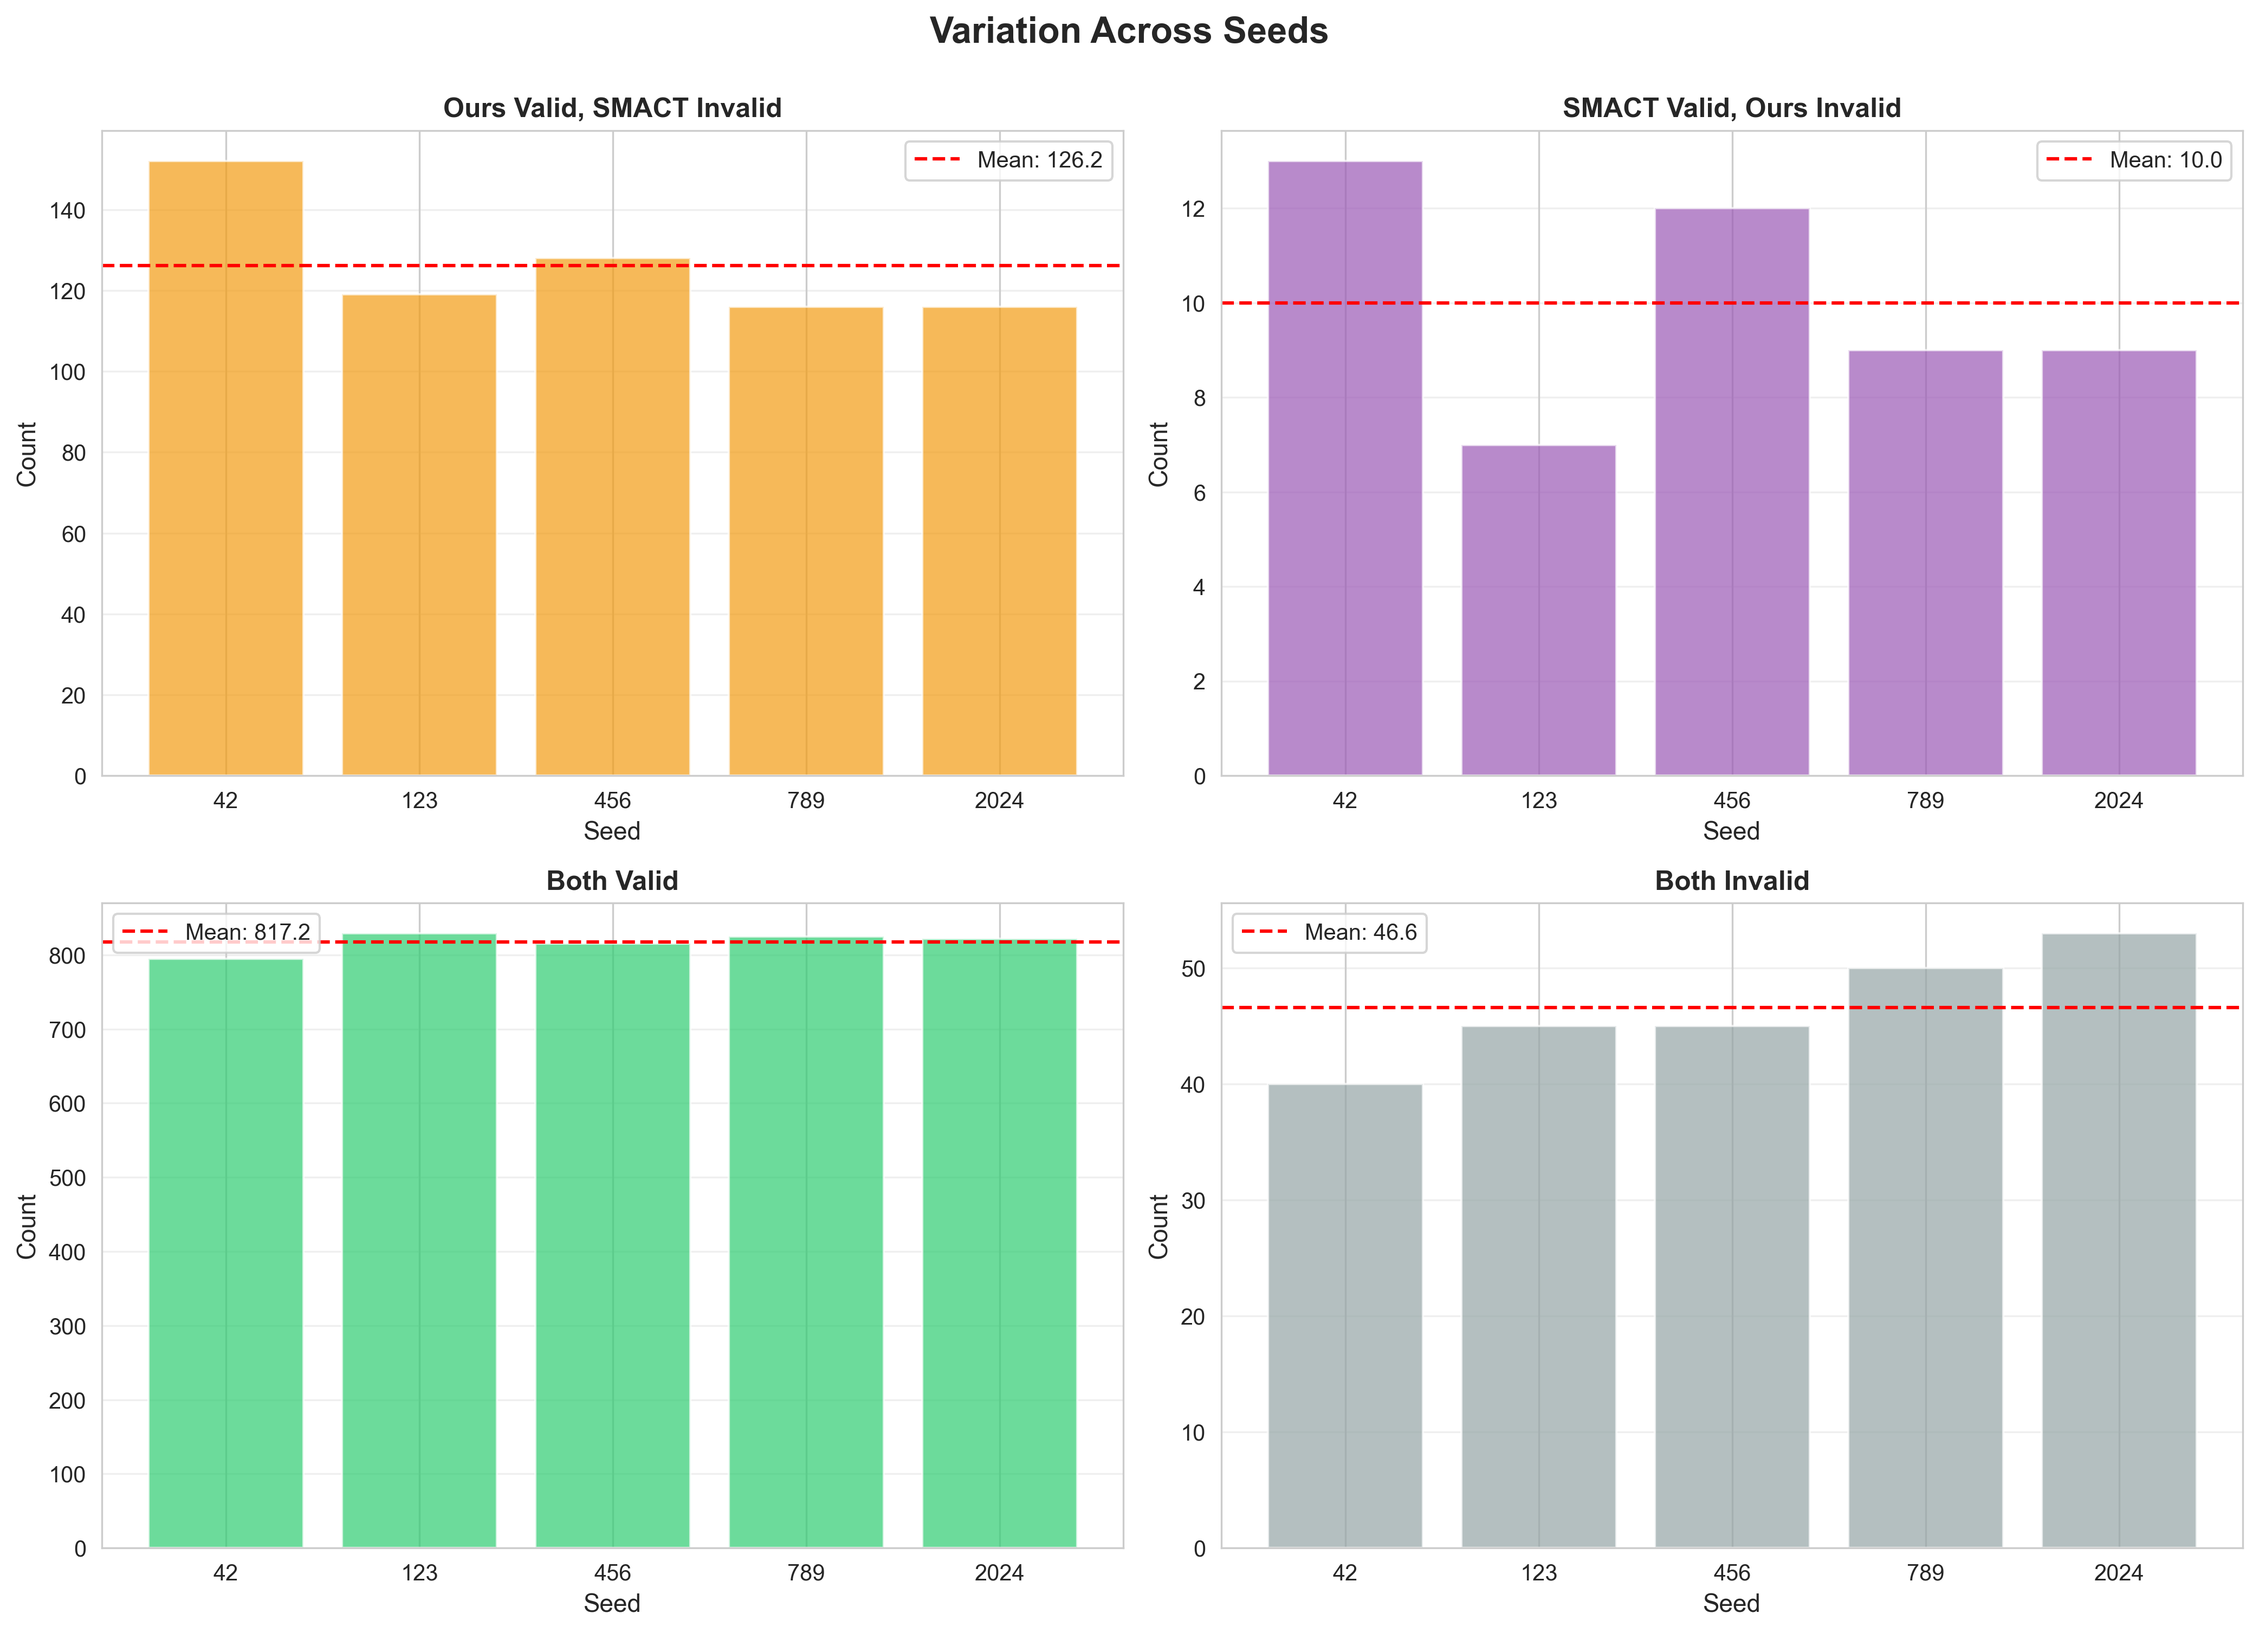
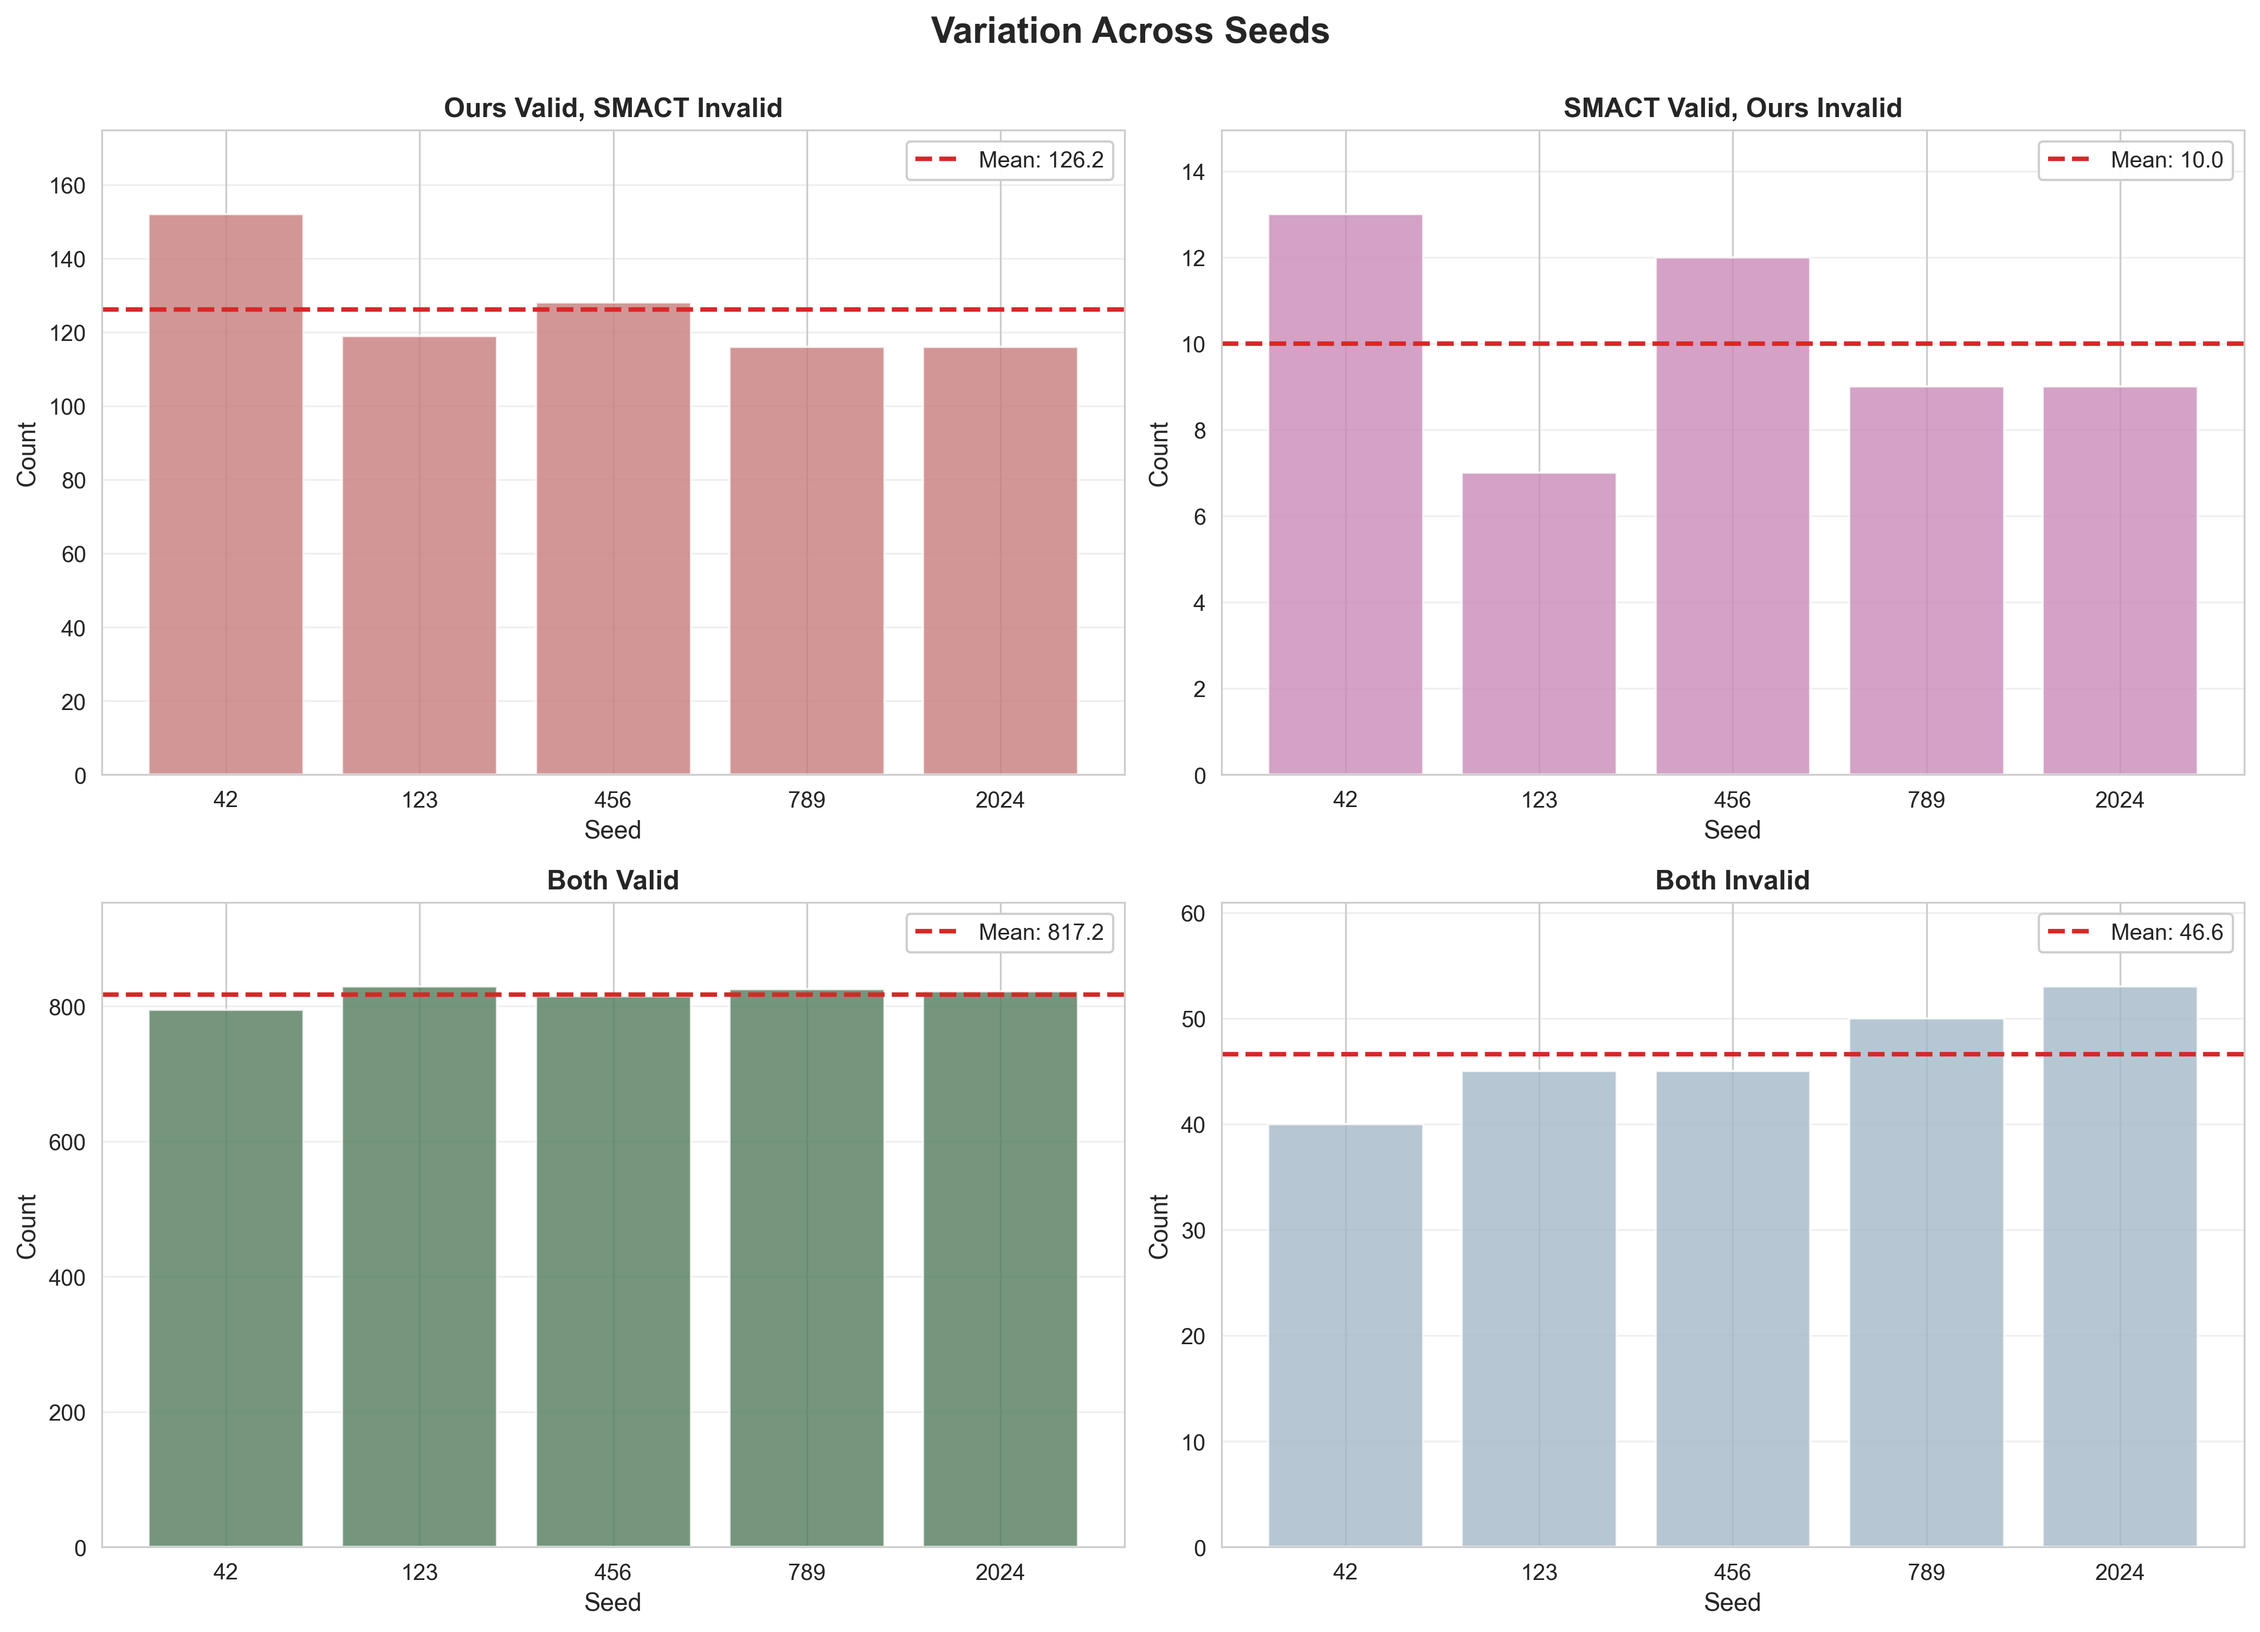
fix: modify colour scheme of plots

diff --git a/scripts/analyze_validity_comparison.py b/scripts/analyze_validity_comparison.py
@@ -70,6 +70,21 @@ def plot_validity_comparison(aggregate_stats: Dict, output_dir: Path):
     """
     fig, (ax1, ax2) = plt.subplots(1, 2, figsize=(14, 6))
     
+    # Expanded palette with high contrast colors for visual diversity
+    palette = {
+        'navy': '#2E3B4E',          # Dark blue/navy
+        'deep_blue': '#3A6B8C',     # Deep blue
+        'teal': '#5B8A8A',          # Teal/cyan
+        'light_cyan': '#7CB8C9',    # Light cyan (bright)
+        'forest_green': '#527C5C',  # Forest green
+        'olive': '#7A8B5C',         # Olive/moss green
+        'tan': '#C9B88B',           # Tan/beige (lighter variant)
+        'salmon': '#C97C7C',        # Salmon/coral (warm)
+        'mauve': '#C98BB8',         # Mauve/pink
+        'purple': '#B8A5C9',        # Light purple
+        'blue_gray': '#A5B8C9',     # Light blue-gray
+    }
+    
     # Plot 1: Validity rates comparison
     methods = ['SMACT', 'Our Checks']
     means = [
@@ -82,19 +97,21 @@ def plot_validity_comparison(aggregate_stats: Dict, output_dir: Path):
     ]
     
     x = np.arange(len(methods))
-    bars = ax1.bar(x, means, yerr=stds, capsize=5, alpha=0.7, 
-                   color=['#3498db', '#e74c3c'])
+    bars = ax1.bar(x, means, yerr=stds, capsize=5, alpha=0.8, 
+                   color=[palette['navy'], palette['light_cyan']], 
+                   error_kw={'linewidth': 2, 'elinewidth': 1.5})
     ax1.set_ylabel('Validity Rate (%)', fontsize=12)
     ax1.set_title('Validity Rates: SMACT vs Our Checks', fontsize=14, fontweight='bold')
     ax1.set_xticks(x)
     ax1.set_xticklabels(methods, fontsize=11)
-    ax1.set_ylim([0, 100])
+    ax1.set_ylim([0, 105])  # Extended to accommodate labels above error bars
     ax1.grid(axis='y', alpha=0.3)
     
-    # Add value labels on bars
+    # Add value labels on bars - positioned above error bars to avoid overlap
     for i, (bar, mean, std) in enumerate(zip(bars, means, stds)):
         height = bar.get_height()
-        ax1.text(bar.get_x() + bar.get_width()/2., height,
+        # Position text above the error bar (height + std + small offset)
+        ax1.text(bar.get_x() + bar.get_width()/2., height + std + 1.5,
                 f'{mean:.1f}±{std:.1f}%',
                 ha='center', va='bottom', fontsize=10, fontweight='bold')
     
@@ -114,22 +131,28 @@ def plot_validity_comparison(aggregate_stats: Dict, output_dir: Path):
         aggregate_stats['smact_valid_ours_invalid_std'],
     ]
     
-    colors = ['#2ecc71', '#95a5a6', '#f39c12', '#9b59b6']
+    colors = [palette['forest_green'], palette['blue_gray'], palette['salmon'], palette['mauve']]
     x = np.arange(len(categories))
     bars = ax2.bar(x, counts_mean, yerr=counts_std, capsize=5, 
-                   alpha=0.7, color=colors)
+                   alpha=0.8, color=colors,
+                   error_kw={'linewidth': 2, 'elinewidth': 1.5})
     ax2.set_ylabel('Number of Structures', fontsize=12)
     ax2.set_title('Agreement/Disagreement Breakdown', fontsize=14, fontweight='bold')
     ax2.set_xticks(x)
     ax2.set_xticklabels(categories, fontsize=9)
     ax2.grid(axis='y', alpha=0.3)
     
-    # Add value labels on bars
+    # Add value labels on bars - positioned above error bars to avoid overlap
     for bar, mean, std in zip(bars, counts_mean, counts_std):
         height = bar.get_height()
-        ax2.text(bar.get_x() + bar.get_width()/2., height,
+        # Calculate appropriate offset based on the scale
+        offset = max(counts_mean) * 0.02  # 2% of max value
+        ax2.text(bar.get_x() + bar.get_width()/2., height + std + offset,
                 f'{mean:.0f}±{std:.0f}',
                 ha='center', va='bottom', fontsize=9, fontweight='bold')
+    
+    # Adjust y-axis limits to accommodate labels
+    ax2.set_ylim([0, max(counts_mean) * 1.15])
     
     plt.tight_layout()
     plt.savefig(output_dir / 'validity_comparison.png', dpi=300, bbox_inches='tight')
@@ -148,6 +171,21 @@ def plot_seed_variation(aggregate_stats: Dict, output_dir: Path):
     output_dir : Path
         Directory to save plots.
     """
+    # Expanded palette with high contrast colors for visual diversity (same as validity_comparison)
+    palette = {
+        'navy': '#2E3B4E',          # Dark blue/navy
+        'deep_blue': '#3A6B8C',     # Deep blue
+        'teal': '#5B8A8A',          # Teal/cyan
+        'light_cyan': '#7CB8C9',    # Light cyan (bright)
+        'forest_green': '#527C5C',  # Forest green
+        'olive': '#7A8B5C',         # Olive/moss green
+        'tan': '#C9B88B',           # Tan/beige (lighter variant)
+        'salmon': '#C97C7C',        # Salmon/coral (warm)
+        'mauve': '#C98BB8',         # Mauve/pink
+        'purple': '#B8A5C9',        # Light purple
+        'blue_gray': '#A5B8C9',     # Light blue-gray
+    }
+    
     fig, axes = plt.subplots(2, 2, figsize=(14, 10))
     
     seeds = aggregate_stats['seeds']
@@ -155,58 +193,67 @@ def plot_seed_variation(aggregate_stats: Dict, output_dir: Path):
     # Plot 1: Ours valid, SMACT invalid
     ax = axes[0, 0]
     counts = aggregate_stats['ours_valid_smact_invalid_counts']
-    ax.bar(range(len(seeds)), counts, alpha=0.7, color='#f39c12')
+    ax.bar(range(len(seeds)), counts, alpha=0.8, color=palette['salmon'])
     ax.set_xlabel('Seed', fontsize=11)
     ax.set_ylabel('Count', fontsize=11)
     ax.set_title('Ours Valid, SMACT Invalid', fontsize=12, fontweight='bold')
     ax.set_xticks(range(len(seeds)))
     ax.set_xticklabels(seeds)
-    ax.axhline(y=np.mean(counts), color='r', linestyle='--', 
+    ax.axhline(y=np.mean(counts), color='#d62828', linestyle='--', linewidth=2,
                label=f'Mean: {np.mean(counts):.1f}')
-    ax.legend()
+    ax.legend(loc='upper right', framealpha=0.95, fontsize=10)
     ax.grid(axis='y', alpha=0.3)
+    # Add padding to y-axis to prevent legend overlap
+    y_max = max(counts)
+    ax.set_ylim([0, y_max * 1.15])
     
     # Plot 2: SMACT valid, ours invalid
     ax = axes[0, 1]
     counts = aggregate_stats['smact_valid_ours_invalid_counts']
-    ax.bar(range(len(seeds)), counts, alpha=0.7, color='#9b59b6')
+    ax.bar(range(len(seeds)), counts, alpha=0.8, color=palette['mauve'])
     ax.set_xlabel('Seed', fontsize=11)
     ax.set_ylabel('Count', fontsize=11)
     ax.set_title('SMACT Valid, Ours Invalid', fontsize=12, fontweight='bold')
     ax.set_xticks(range(len(seeds)))
     ax.set_xticklabels(seeds)
-    ax.axhline(y=np.mean(counts), color='r', linestyle='--',
+    ax.axhline(y=np.mean(counts), color='#d62828', linestyle='--', linewidth=2,
                label=f'Mean: {np.mean(counts):.1f}')
-    ax.legend()
+    ax.legend(loc='upper right', framealpha=0.95, fontsize=10)
     ax.grid(axis='y', alpha=0.3)
+    y_max = max(counts)
+    ax.set_ylim([0, y_max * 1.15])
     
     # Plot 3: Both valid
     ax = axes[1, 0]
     counts = aggregate_stats['both_valid_counts']
-    ax.bar(range(len(seeds)), counts, alpha=0.7, color='#2ecc71')
+    ax.bar(range(len(seeds)), counts, alpha=0.8, color=palette['forest_green'])
     ax.set_xlabel('Seed', fontsize=11)
     ax.set_ylabel('Count', fontsize=11)
     ax.set_title('Both Valid', fontsize=12, fontweight='bold')
     ax.set_xticks(range(len(seeds)))
     ax.set_xticklabels(seeds)
-    ax.axhline(y=np.mean(counts), color='r', linestyle='--',
+    ax.axhline(y=np.mean(counts), color='#d62828', linestyle='--', linewidth=2,
                label=f'Mean: {np.mean(counts):.1f}')
-    ax.legend()
+    ax.legend(loc='upper right', framealpha=0.95, fontsize=10)
     ax.grid(axis='y', alpha=0.3)
+    y_max = max(counts)
+    ax.set_ylim([0, y_max * 1.15])
     
     # Plot 4: Both invalid
     ax = axes[1, 1]
     counts = aggregate_stats['both_invalid_counts']
-    ax.bar(range(len(seeds)), counts, alpha=0.7, color='#95a5a6')
+    ax.bar(range(len(seeds)), counts, alpha=0.8, color=palette['blue_gray'])
     ax.set_xlabel('Seed', fontsize=11)
     ax.set_ylabel('Count', fontsize=11)
     ax.set_title('Both Invalid', fontsize=12, fontweight='bold')
     ax.set_xticks(range(len(seeds)))
     ax.set_xticklabels(seeds)
-    ax.axhline(y=np.mean(counts), color='r', linestyle='--',
+    ax.axhline(y=np.mean(counts), color='#d62828', linestyle='--', linewidth=2,
                label=f'Mean: {np.mean(counts):.1f}')
-    ax.legend()
+    ax.legend(loc='upper right', framealpha=0.95, fontsize=10)
     ax.grid(axis='y', alpha=0.3)
+    y_max = max(counts)
+    ax.set_ylim([0, y_max * 1.15])
     
     plt.suptitle('Variation Across Seeds', fontsize=16, fontweight='bold', y=1.00)
     plt.tight_layout()
